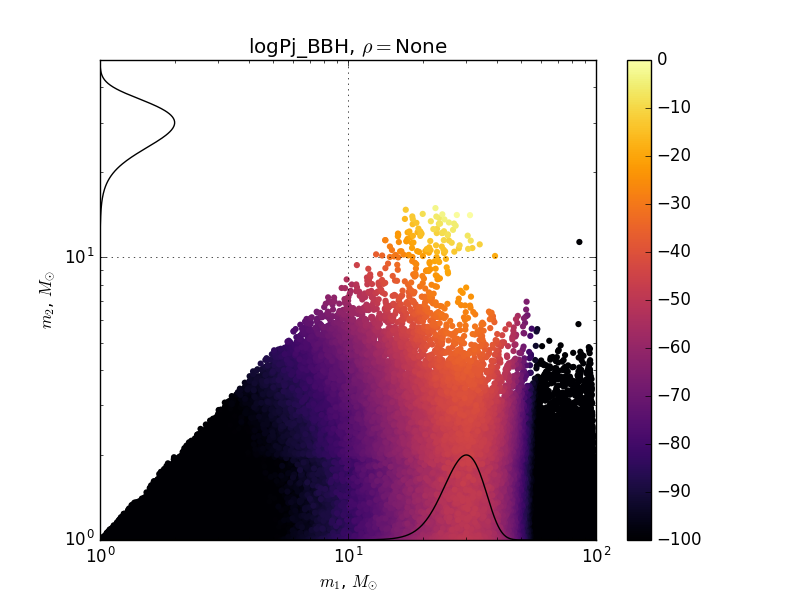
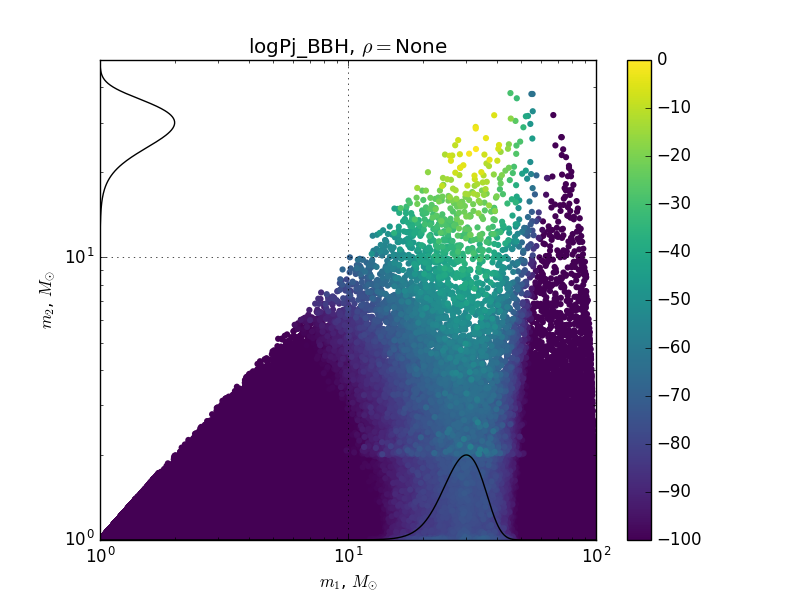
added updated logPj plots and Bartos citation

Changed region(s): [[0.125, 0.15, 0.75, 0.9], [0.7812, 0.09, 0.8125, 0.9]]

diff --git a/article_rankstatsrc.tex b/article_rankstatsrc.tex
@@ -115,7 +115,7 @@ Searches for gravitational waves from compact binary coalescences use a techniqu
 
 In \cite{2015arXiv150404632C}, Cannon {\it et al.} derived a likelihood-ratio ranking statistic that expands on previous work by Biswas {\it et al.} \cite{Biswas:2012tv} and Aasi {\it et al.} \cite{Aasi:2013vna}. Cannon {\it et al.} incorporated a model for the correlations in SNR with which signals will be seen in a network of ground-based antennae. The ranking statistic retains an algebraic procedure for mapping ranking statistic values to false-alarm probability. The ranking statistic derived in \cite{2015arXiv150404632C} has been implemented into one of Advanced LIGO's compact binary coalescence gravitational-wave search analyses, GstLaL \cite{Cannon:2011vi,Privitera:2013xza,Messick:2016}.
 
-Currently, the likelihood ratio-based ranking statistic implemented in GstLaL assumes that gravitational-wave signals are equally likely to be recovered by any waveform template in the template bank; that is, the signal population of compact binaries is assumed to follow the placement of the waveforms in the template bank. This has been implicitly chosen in past gravitational-wave searches from compact binary coalescences in order to maximize the SNR of the signal, but it carries no astrophysical information of source population models. As a result, compact binary coalescence searches suffer in sensitivity because it assumes an incorrect distribution of compact binaries in the Universe, which yields an algorithm with less sensitivity of detecting real signals. 
+Currently, the likelihood ratio-based ranking statistic implemented in GstLaL assumes that gravitational-wave signals are equally likely to be recovered by any waveform template in the template bank; that is, the signal population of compact binaries is assumed to follow the placement of the waveforms in the template bank. This has been implicitly chosen in past gravitational-wave searches from compact binary coalescences in order to maximize the SNR of the signal, but it carries no astrophysical information of source population models. As a result, compact binary coalescence searches suffer in sensitivity because it assumes an incorrect distribution of compact binaries in the Universe, which yields an algorithm with less sensitivity of detecting real signals. Bartos and Marka \cite{2015PhRvL.115w1101B} estimate that the inclusion of source-dependent factor will increase binary neutron star detections by 14\% for all-sky searches.
 
 This article presents a derivation that folds in astrophysical source population model information into the ranking statistic. Implementing the source-dependent ranking statistic allows one to tune compact binary coalescence searches to be more sensitive to a given population, which will improve the accuracy of the rate estimates of observed mergers. 
 
@@ -324,7 +324,7 @@ We assume that $P(\rho)\propto\rho^{-4}$. We cannot normalize this because there
 \begin{figure}
 \includegraphics[width=0.5\textwidth]{lnP_vs_rho_Ozel.pdf}
 \includegraphics[width=0.5\textwidth]{lnP_vs_rho_BBH.pdf}
-\caption{Lagrangian fits of $P_{jk}$ vs $\rho$ for select templates, which are different for each source population (top: BNS, bottom: BBH). Dots are the data points, and solid lines are the functions fitted with cubic splines. The $\rho$ values are found using the Chebyshev nodes, with the addition of $\rho=0$.}
+\caption{Source-dependent probability as a function of $\rho$ for select templates, which are different for each population (top: BNS, bottom: BBH). Dots are the data points, and solid lines are the functions fitted with cubic splines. The $\rho$ values are found using the Chebyshev nodes, with the addition of $\rho=0$, though the functions are only fitted to a minimum value of $\rho=4$, which is the SNR threshold.}
 \label{fig:Pvsrho}
 \end{figure}
 
